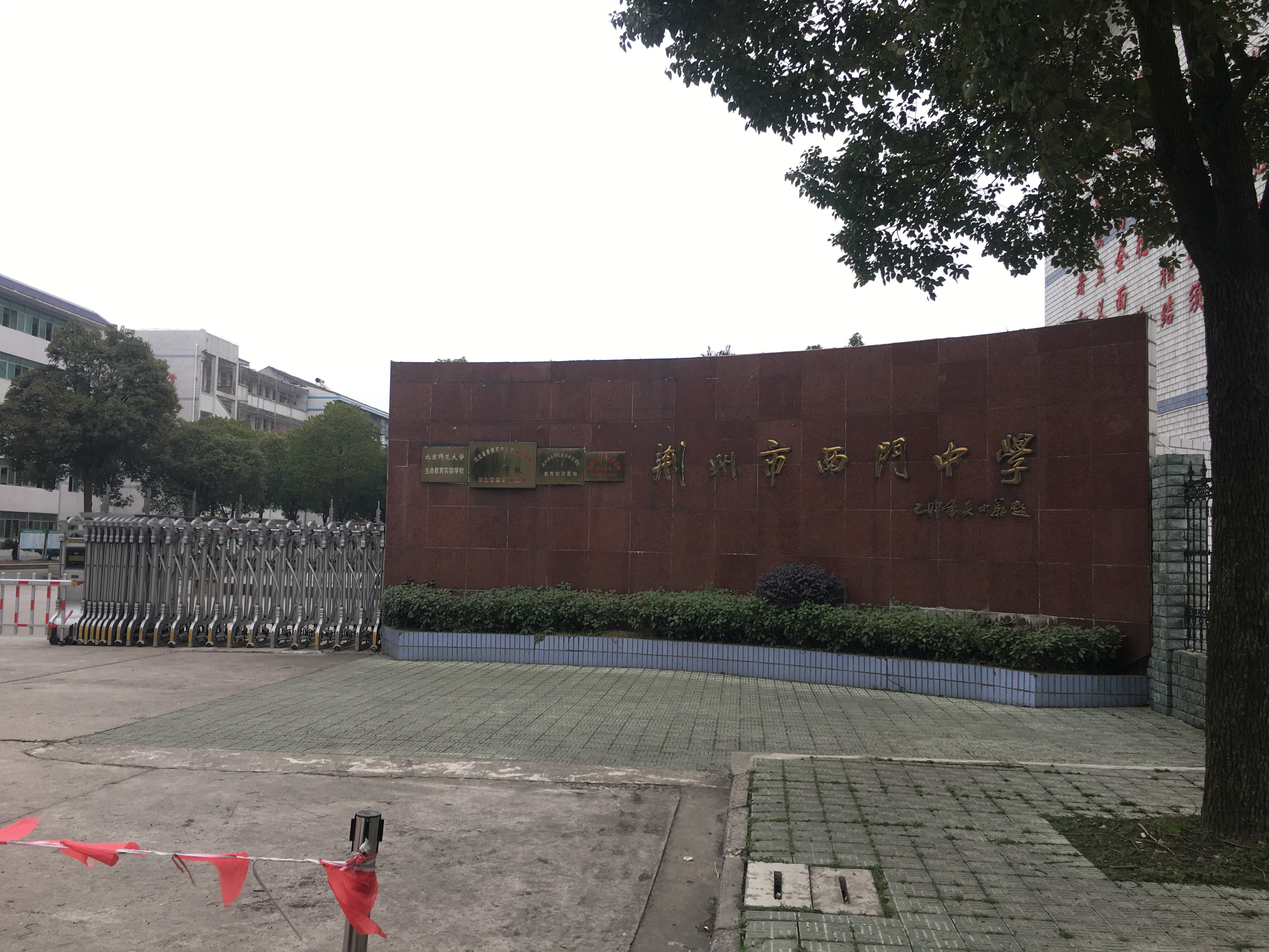
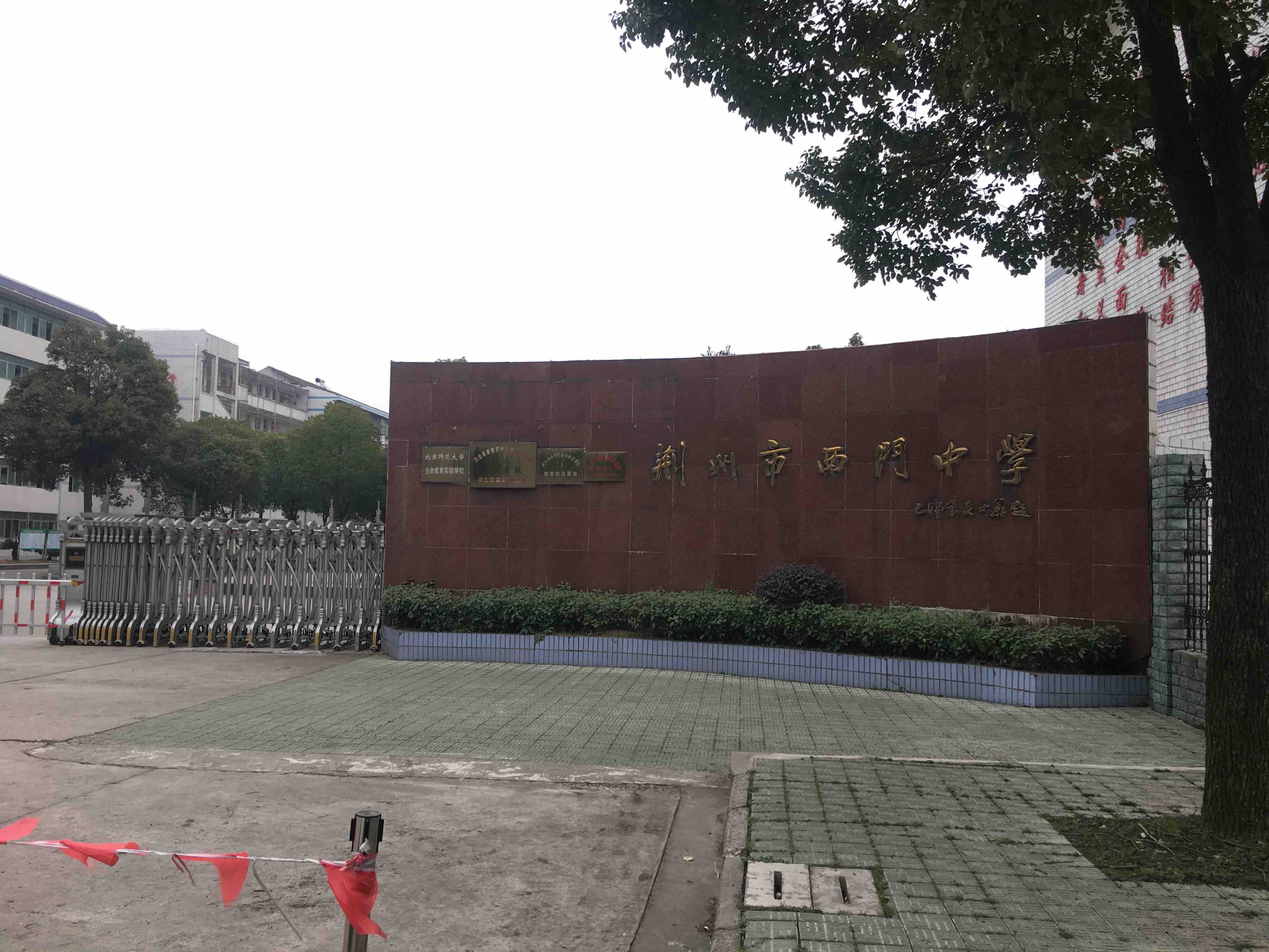
resizeimages

diff --git a/_posts/2019-05-06-classmates-in-high-school.md b/_posts/2019-05-06-classmates-in-high-school.md
@@ -6,7 +6,7 @@ categories: blogs
 tags: [friends, dears]
 image:
   feature: note/Ximen_HighSchool.jpg
-  teaser: note/Ximen_HighSchool_teaser.png
+  teaser: note/Ximen_HighSchool_teaser.jpg
   credit: javascript
   creditlink: ""
 ---
